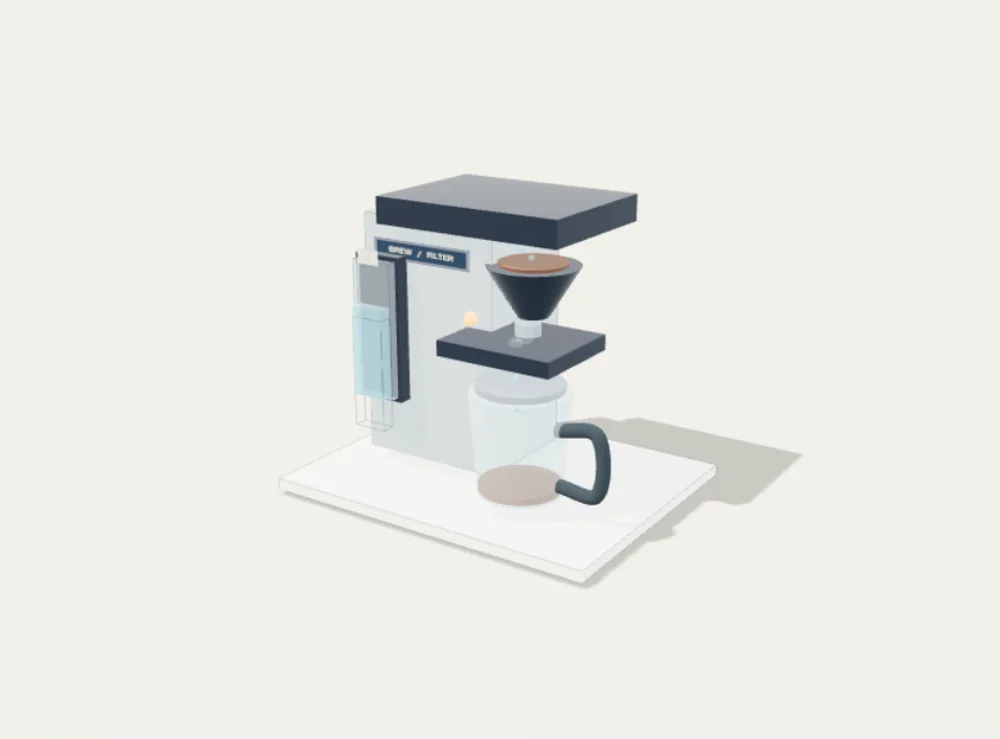
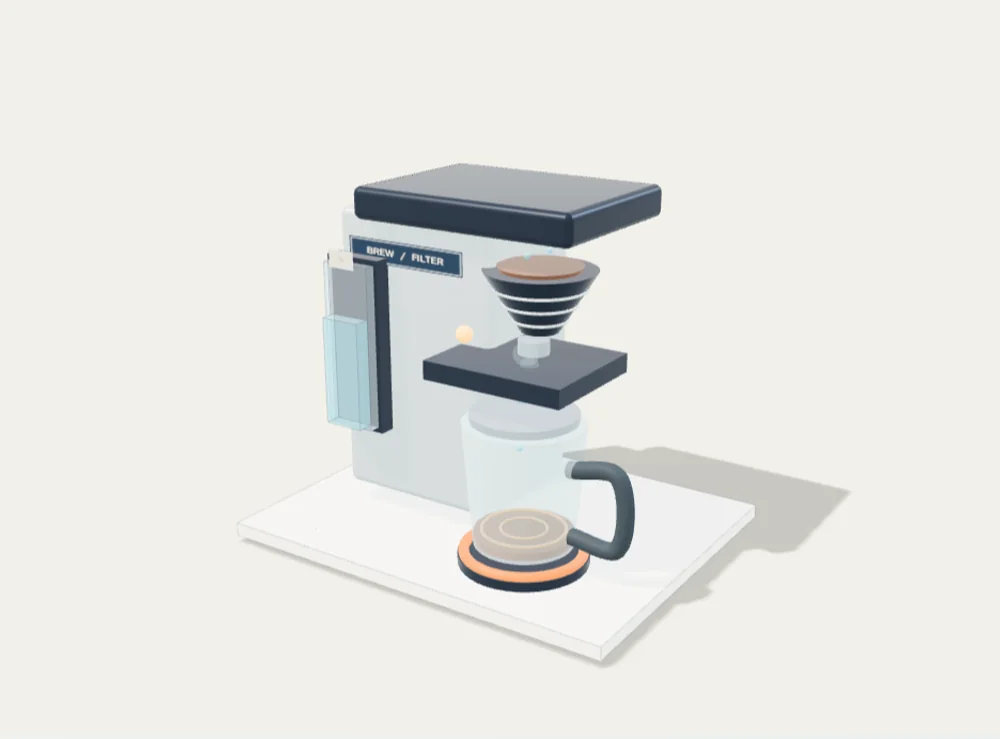
feat(android): vending coils, true product families and coffee extraction details v0.19

diff --git a/src/three-viewer.js b/src/three-viewer.js
@@ -8,6 +8,7 @@ import {graphicsProfile,validGraphicsMode} from "./graphics-quality.js";
 import {RoundedBoxGeometry} from "three/addons/geometries/RoundedBoxGeometry.js";
 import {lockMechanics,washerMechanics,vendingMechanics} from "./mechanics-state.js";
 import {getObjectParts} from "./part-annotations.js";
+import {VENDING_PRODUCT_ROWS,vendingProduct,vendingProductFromTray,feederRotation} from "./vending-visuals.js";
 import {createSurfacePixels,SURFACE_SIZE} from "./surface-finishes.js";
 import {AIRFLOW_PARTICLE_COUNT,airflowPoint,airSpeed,airflowParticleBudget} from "./fan-airflow.js";
 
@@ -522,6 +523,11 @@ function makeCoffee(root){
  badge(root,"H2O",-.82,1.96,.596,.2,.12);
  // Exposed filter funnel, removable brown grounds and pouring nozzle.
  const filter=cylinder(root,.36,.12,.39,mats.dark,.42,1.79,.19);
+ // Concentric mesh ridges make the removable filter basket readable.
+ for(const level of [1.67,1.77,1.87]){
+  const taper=.12+(.36-.12)*((level-1.595)/.39);
+  ring(root,taper,.012,mats.stainless,.42,level,.19,Math.PI/2);
+ }
  const grounds=cylinder(root,.27,.25,.06,mats.coffee,.42,1.98,.19);
  cylinder(root,.10,.10,.14,mats.steel,.42,1.49,.26);
  const shower=group(root,.4,2.18,.19);
@@ -532,6 +538,20 @@ function makeCoffee(root){
  cylinder(jug,.34,.34,.05,mats.steel,0,.44,0);
  hose(jug,[[.32,.16,0],[.65,.19,0],[.66,-.28,0],[.34,-.28,0]],.055,mats.rubber);
  const coffee=cylinder(jug,.32,.32,.25,mats.coffee,0,-.23,0);
+ // Two soft circles track the liquid surface as the jug fills. They widen
+ // only while drops enter the jug, with no additional lights or draw passes.
+ const rippleMat=material({color:0xc79b72,roughness:.35,
+  transparent:true,opacity:.66,depthWrite:false});
+ const coffeeRipples=[.19,.28].map(radius=>{
+  const ripple=ring(jug,radius,.012,rippleMat,0,-.36,0,Math.PI/2);
+  ripple.visible=false;
+  return ripple;
+ });
+ // The hotplate below the jug glows orange during extraction.
+ const warmerMat=material({color:0x8e4334,roughness:.43,metalness:.28,
+  emissive:0xfa632b,emissiveIntensity:.05});
+ ring(root,.38,.035,warmerMat,.49,.24,.47,Math.PI/2);
+ cylinder(root,.42,.42,.065,mats.dark,.49,.195,.47);
  const drip=group(root,.43,1.36,.43);
  const drops=Array.from({length:6},()=>sphere(drip,.027,liquid,0,0,0));
  const hotMat=material({color:0xf6a36a,emissive:0xff6a24,emissiveIntensity:.08});
@@ -544,6 +564,13 @@ function makeCoffee(root){
   const coffeeHeight=.56*volume;
   coffee.scale.y=Math.max(.006,coffeeHeight/.25);
   coffee.position.y=-.38+coffeeHeight/2;
+  coffeeRipples.forEach((ripple,i)=>{
+   ripple.visible=volume>.08;
+   ripple.position.y=-.38+coffeeHeight+.013;
+   const phase=(time*(s.brewing?1.8:0)+i*.5)%1;
+   ripple.scale.setScalar(s.brewing?.65+.35*phase:1);
+  });
+  warmerMat.emissiveIntensity=s.brewing?.9:volume>.04?.18:.04;
   const waterHeight=.80*water;
   waterColumn.scale.y=Math.max(.006,waterHeight/.90);
   waterColumn.position.y=.84+waterHeight/2;
@@ -708,6 +735,31 @@ function makeWashing(root){
   });
  },needsAnimation:()=>false};
 }
+// The machine actually sells two rows of cans, one of bottles, and one
+// of snack pouches. Each product reuses its slot's material for all stocked
+// copies. Returned skin meshes allow the falling and retrieved item to match.
+function makeVendingProduct(parent,kind,material){
+ const item=group(parent),skins=[];
+ if(kind==="can"){
+  skins.push(cylinder(item,.125,.125,.27,material));
+  cylinder(item,.126,.126,.015,mats.stainless,0,.14,0);
+  cylinder(item,.125,.125,.012,mats.steel,0,-.141,0);
+  ring(item,.10,.008,mats.dark,0,.151,0,Math.PI/2);
+ }else if(kind==="bottle"){
+  skins.push(cylinder(item,.105,.102,.225,material,0,-.02,0));
+  skins.push(cylinder(item,.052,.105,.085,material,0,.134,0,20));
+  cylinder(item,.047,.047,.075,mats.stainless,0,.202,0,20);
+  cylinder(item,.059,.059,.038,mats.dark,0,.242,0,20);
+  ring(item,.10,.011,mats.ivory,0,-.066,0,Math.PI/2);
+ }else{
+  // Rounded-looking pillow pack with sealed crimp edges.
+  skins.push(block(item,.235,.235,.16,material,0,0,0,0));
+  block(item,.26,.034,.18,mats.ivory,0,.126,0,0);
+  block(item,.26,.034,.18,mats.ivory,0,-.126,0,0);
+  block(item,.15,.065,.012,mats.ivory,0,-.005,.09,0);
+ }
+ return {item,skins};
+}
 function makeVending(root){
  plate(root,3.1,2.6,.12);
  // Hollow cabinet: a solid cube would hide every stocked can behind it.
@@ -725,26 +777,56 @@ function makeVending(root){
  });
  block(root,1.57,1.93,.026,vendingGlass,-.25,1.75,.73);
  badge(root,"SNACK  STATION",0,2.73,.68,1.44,.22,"#273b4d","#f5dcad");
- // Four rows x four selectors x three depths = 48 real product cans.
+ // Four rows x four selectors x three depths = 48 products.
+ // Each ColorFigures row has its true geometry and exact original colour.
  const products=[];
- const itemColors=[mats.amber,mats.warm,mats.leaf,mats.ivory];
+ const slotMaterials=VENDING_PRODUCT_ROWS.map(row=>row.colors.map(color=>
+  material({color,metalness:row.kind==="can"?.35:.06,
+   roughness:row.kind==="snack"?.57:.35})
+ ));
  for(let row=0;row<4;row++){
   const shelf=.94+row*.46;
   block(root,1.48,.065,1.0,mats.stainless,-.27,shelf,.03);
   for(let col=0;col<4;col++){
+   const spec=vendingProduct(row,col);
    const x=-.82+col*.38;
    const stack=[];
    for(let layer=0;layer<3;layer++){
     const z=.17-layer*.24;
-    const can=group(root,x,shelf+.16,z);
-    cylinder(can,.125,.125,.27,itemColors[(row+col)%4]);
-    const top=cylinder(can,.125,.125,.018,mats.steel,0,.14,0);
-    ring(can,.112,.008,mats.stainless,0,.152,0,Math.PI/2);
-    stack.push(can);
+    const container=group(root,x,shelf+.16,z);
+    makeVendingProduct(container,spec.kind,slotMaterials[row][col]);
+    stack.push(container);
    }
    products.push({row,col,stack});
   }
  }
+ // A single instanced mesh represents all 16 electromechanical
+ // spiral feeders; only the selected helix turns while dispensing.
+ const coilCurve=new THREE.CatmullRomCurve3(
+  Array.from({length:73},(_,i)=>{
+   const t=i/72,a=t*Math.PI*4;
+   return new THREE.Vector3(.146*Math.cos(a),.146*Math.sin(a),-.39+t*.69);
+  })
+ );
+ const coils=new THREE.InstancedMesh(
+  new THREE.TubeGeometry(coilCurve,72,.011,6,false),
+  mats.stainless,16
+ );
+ coils.instanceMatrix.setUsage(THREE.DynamicDrawUsage);
+ coils.frustumCulled=false;
+ coils.castShadow=false;
+ root.add(coils);
+ const feederPose=new THREE.Object3D();
+ function positionFeeder(index,angle){
+  const row=Math.floor(index/4),col=index%4;
+  feederPose.position.set(-.82+col*.38,.94+row*.46+.16,0);
+  feederPose.rotation.set(0,0,angle);
+  feederPose.updateMatrix();
+  coils.setMatrixAt(index,feederPose.matrix);
+ }
+ for(let index=0;index<16;index++)positionFeeder(index,0);
+ coils.instanceMatrix.needsUpdate=true;
+ let activeFeeder=-1;
  // Front control module: tactile keypad, illuminated credit screen and coin slot.
  block(root,.46,1.32,.08,mats.dark,.84,1.81,.745);
  for(let j=0;j<12;j++){
@@ -783,11 +865,16 @@ function makeVending(root){
  // Product trajectory: shelf -> chute -> collection bay, driven by
  // the authoritative ColorFigures drop.r / drop.c / drop.t fields.
  const falling=group(root);
- const fallingCan=cylinder(falling,.128,.128,.28,mats.warm);
- cylinder(falling,.13,.13,.018,mats.steel,0,.148,0);
+ const kinds=["can","bottle","snack"];
+ const dropModels=Object.fromEntries(kinds.map(kind=>{
+  const item=makeVendingProduct(falling,kind,mats.warm);
+  return [kind,item];
+ }));
  const pickup=group(root,-.27,.57,.85);
- cylinder(pickup,.125,.125,.26,mats.amber);
- cylinder(pickup,.13,.13,.018,mats.steel,0,.137,0);
+ const pickupModels=Object.fromEntries(kinds.map(kind=>{
+  const item=makeVendingProduct(pickup,kind,mats.amber);
+  return [kind,item];
+ }));
  // The pickup flap pivots on its lower horizontal hinge, not its centre.
  block(root,1.4,.34,.08,mats.dark,-.19,.46,.72);
  const flap=group(root,-.27,.36,.85);
@@ -805,17 +892,33 @@ function makeVending(root){
   });
   dropping=Boolean(m.drop);
   falling.visible=dropping;
+  const feeder=m.drop?m.drop.row*4+m.drop.col:-1;
+  if(activeFeeder>=0&&activeFeeder!==feeder)positionFeeder(activeFeeder,0);
+  if(feeder>=0)positionFeeder(feeder,feederRotation(m.drop.progress));
+  if(feeder>=0||activeFeeder>=0)coils.instanceMatrix.needsUpdate=true;
+  activeFeeder=feeder;
+  const choice=m.drop?vendingProduct(m.drop.row,m.drop.col):null;
+  for(const [kind,visual] of Object.entries(dropModels)){
+   visual.item.visible=Boolean(choice&&choice.kind===kind);
+   if(choice&&choice.kind===kind)
+    visual.skins.forEach(mesh=>{mesh.material=slotMaterials[choice.row][choice.col];});
+  }
   if(m.drop){
    const t=m.drop.progress;
    const shelf=.94+m.drop.row*.46;
    const x=-.82+m.drop.col*.38;
    const move=Math.max(0,Math.min(1,(t-.12)/.6));
-   falling.position.set(x+( -.27-x)*move,shelf+.16+( .57-(shelf+.16))*t,
+   falling.position.set(x+(-.27-x)*move,shelf+.16+(.57-(shelf+.16))*t,
     .17+.68*move+Math.sin(Math.PI*t)*.18);
    falling.rotation.z=t*Math.PI*1.75;
-   fallingCan.material=itemColors[(m.drop.row+m.drop.col)%4];
   }
-  pickup.visible=m.trayVisible;
+  const tray=vendingProductFromTray(s.tray);
+  pickup.visible=Boolean(m.trayVisible&&tray);
+  for(const [kind,visual] of Object.entries(pickupModels)){
+   visual.item.visible=Boolean(tray&&tray.kind===kind);
+   if(tray&&tray.kind===kind)
+    visual.skins.forEach(mesh=>{mesh.material=slotMaterials[tray.row][tray.col];});
+  }
   flap.rotation.x=m.flap*1.14;
   returnedCoins.forEach((coin,i)=>{coin.visible=m.returned>i*.5+.001;});
  },needsAnimation:()=>dropping};
@@ -1224,8 +1327,9 @@ export function createObjectViewer(container,id){
       showParts=Boolean(visible);
       markerLayer.hidden=!showParts;
       if(!showParts){
-       description.hidden=true;partLocator.visible=false;
-      delete markerLayer.dataset.selectedPart;cameraMove=null;
+       description.hidden=true;
+       partLocator.visible=false;
+       cameraMove=null;
        delete markerLayer.dataset.selectedPart;
       }
       else updatePartPositions();
@@ -1249,6 +1353,9 @@ export function createObjectViewer(container,id){
       const shared=new Set([...Object.values(mats),glow,steamMaterial,frosted,liquid,alertMat,brassy,blue,white,tint,edgeMaterial]);
       const unique=new Set();
       scene.traverse(o=>{
+        // InstancedMesh owns GPU instance buffers in addition to its geometry.
+        // Explicit disposal matters on Android when switching models repeatedly.
+        if(o.isInstancedMesh)o.dispose();
         if(o.geometry)o.geometry.dispose();
         if(o.material)for(const mat of (Array.isArray(o.material)?o.material:[o.material])){
           if(!shared.has(mat))unique.add(mat);

diff --git a/tests/vending-visuals.test.js b/tests/vending-visuals.test.js
@@ -1,0 +1,38 @@
+import test from "node:test";
+import assert from "node:assert/strict";
+import {VENDING_PRODUCT_ROWS,vendingProduct,vendingProductFromTray,feederRotation} from "../src/vending-visuals.js";
+
+test("all 16 selections match the original ColorFigures product rows and colors",()=>{
+ assert.deepEqual(VENDING_PRODUCT_ROWS.map(x=>x.kind),["can","can","bottle","snack"]);
+ assert.equal(VENDING_PRODUCT_ROWS.length,4);
+ const codes=new Set();
+ for(let row=0;row<4;row++)for(let col=0;col<4;col++){
+  const item=vendingProduct(row,col);
+  assert.ok(item);
+  assert.equal(item.kind,VENDING_PRODUCT_ROWS[row].kind);
+  assert.equal(item.color,VENDING_PRODUCT_ROWS[row].colors[col]);
+  assert.equal(item.code,"ABCD"[row]+(col+1));
+  assert.deepEqual(vendingProductFromTray({code:item.code}),item);
+  codes.add(item.code);
+ }
+ assert.equal(codes.size,16);
+ assert.equal(vendingProduct(2,1).kind,"bottle");
+ assert.equal(vendingProduct(3,3).kind,"snack");
+ assert.equal(vendingProductFromTray({code:"B3"}).color,0xece6d6);
+});
+test("invalid tray codes and slot indices never show made-up products",()=>{
+ for(const pair of [[-1,1],[1,4],[1.2,1],[0,NaN],[undefined,3]]){
+  assert.equal(vendingProduct(...pair),null);
+ }
+ for(const item of [null,undefined,{},{code:"Z9"},{code:"A0"},{code:"A1x"},{code:23}]){
+  assert.equal(vendingProductFromTray(item),null);
+ }
+});
+test("feeder spiral turns exactly once and clamps impossible progress",()=>{
+ assert.equal(feederRotation(0),0);
+ assert.equal(feederRotation(-1),0);
+ assert.equal(feederRotation(1),Math.PI*2);
+ assert.equal(feederRotation(4),Math.PI*2);
+ assert.equal(feederRotation(Number.NaN),0);
+ assert.equal(feederRotation(.5),Math.PI);
+});

diff --git a/src/vending-visuals.js b/src/vending-visuals.js
@@ -1,0 +1,25 @@
+// Offline visual catalogue mirroring the selectable products in ColorFigures.
+// The source keeps 4 rows (A-D), four columns (1-4), and three items per slot.
+// Product shape and colour must agree with the actual vend / tray state.
+export const VENDING_PRODUCT_ROWS=Object.freeze([
+  Object.freeze({kind:"can",colors:Object.freeze([0xe2473a,0x2f6fd6,0xf2c230,0x38a565])}),
+  Object.freeze({kind:"can",colors:Object.freeze([0x8c4bd1,0xf08a2b,0xece6d6,0x33302c])}),
+  Object.freeze({kind:"bottle",colors:Object.freeze([0xf07b2a,0x5cc0e8,0xd94f86,0x9ccc3c])}),
+  Object.freeze({kind:"snack",colors:Object.freeze([0xf2c230,0xe2473a,0x3e86d9,0x8a5a3c])})
+]);
+export function vendingProduct(row,col){
+  if(!Number.isInteger(row)||!Number.isInteger(col)||row<0||row>3||col<0||col>3)return null;
+  const spec=VENDING_PRODUCT_ROWS[row];
+  return {kind:spec.kind,color:spec.colors[col],row,col,code:String.fromCharCode(65+row)+(col+1)};
+}
+export function vendingProductFromTray(tray){
+  const code=tray?.code;
+  if(typeof code!=="string"||!/^[A-D][1-4]$/.test(code))return null;
+  return vendingProduct(code.charCodeAt(0)-65,Number(code[1])-1);
+}
+// One complete turn extrudes the front-most product from its spiral feeder.
+// Progress is clamped so corrupt or delayed frames do not spin indefinitely.
+export function feederRotation(progress){
+  const t=Number(progress);
+  return Math.PI*2*Math.max(0,Math.min(1,Number.isFinite(t)?t:0));
+}

diff --git a/README.md b/README.md
@@ -511,3 +511,29 @@ Android modestes.
 
 34 tests unitaires et tous les scénarios navigateur passent.
 La CI produit l'APK Android 0.18.0 (versionCode 18).
+
+
+## Version 0.19 — distribution mécanique et extraction du café
+
+Le distributeur 3D respecte les **16 références de la simulation ColorFigures** :
+les rangées A et B vendent des canettes, C des bouteilles, et D des sachets.
+Les couleurs de chaque emplacement reproduisent les couleurs d'origine.
+Les 48 unités en stock, le produit qui tombe et le produit récupéré
+dans le bac partagent désormais la forme et la couleur de leur référence.
+
+Chaque colonne dispose d'une **spirale électromécanique**. Les 16 spirales
+sont rendues par une unique géométrie instanciée ; seule celle de la
+référence sélectionnée pivote d'un tour pendant la distribution. Les
+quantités en stock, le crédit, la chute et le volet restent synchronisés
+avec la simulation originale. Les objets instanciés libèrent explicitement
+leurs buffers GPU lors du changement de modèle.
+
+La cafetière 3D comporte maintenant des nervures métalliques sur le
+porte-filtre, une plaque chauffante dont la lumière réagit à l'extraction,
+et deux ondulations suivant le niveau réel de café dans la verseuse.
+Les nouveaux éléments sont entièrement procéduraux et hors ligne.
+
+Tests : 37 tests unitaires (incluant les références, couleurs et limites
+des 16 sélections) ; tests navigateur des neuf modèles, de la vue 3D,
+et différences visuelles des produits B3, C2, D4 dans le bac. Profils de
+qualité graphique et repli 2D conservés. APK Android 0.19.0 (versionCode 19).
